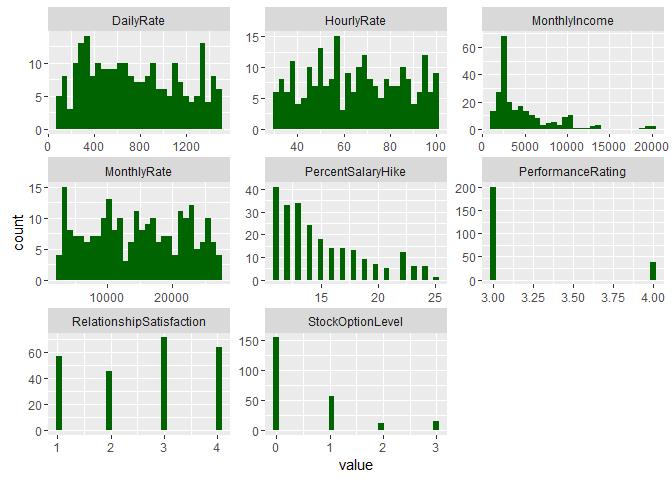
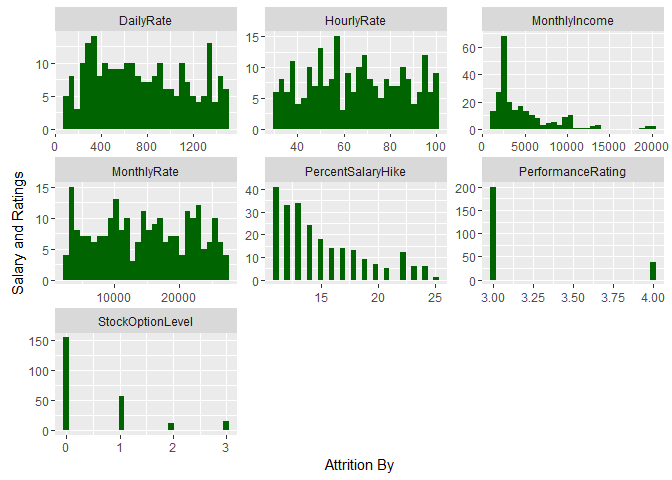
Examining Univariate 1 and modify observation

diff --git a/CaseStudy2.md b/CaseStudy2.md
@@ -65,12 +65,14 @@ Univariate 1 - attrition by salary and Ratings
 ----------------------------------------------
 
 ``` r
-uni_1_cols <- c("HourlyRate", "DailyRate", "MonthlyIncome", "MonthlyRate", "PercentSalaryHike", "StockOptionLevel", "PerformanceRating", "RelationshipSatisfaction")
+uni_1_cols <- c("HourlyRate", "DailyRate", "MonthlyIncome", "MonthlyRate", "PercentSalaryHike", "StockOptionLevel", "PerformanceRating")
 attrition_data[uni_1_cols] %>%
  gather() %>%     
  ggplot(aes(x = value)) +                     
  facet_wrap(~ key, scales = "free") +  
- geom_histogram(fill = "darkgreen")
+ geom_histogram(fill = "darkgreen") +
+ xlab('Attrition By') + 
+ ylab('Salary and Ratings')
 ```
 
     `stat_bin()` using `bins = 30`. Pick better value with `binwidth`.
